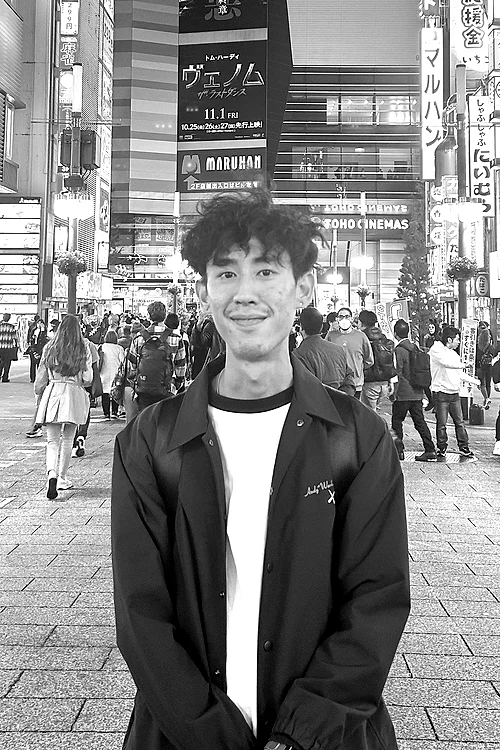
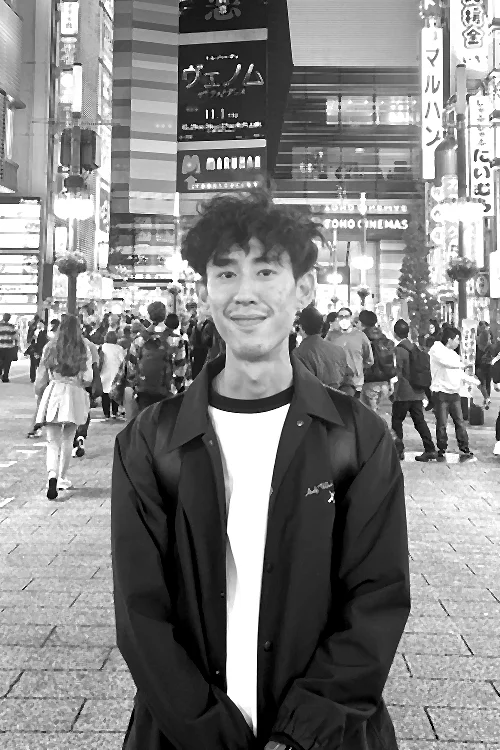
stop the hero typing line from shifting the page, orange showPicture(), light skin smoothing
The typed role/fun swap was 3px different in height every cycle (role
runs 6% bigger in a serif that already reads taller at the same size)
— both variants now compute line-height off the same base instead of
their own font-size, so the row holds still. Separately, the longest
string ("Cloud & Automation Tinkerer") wraps to two lines under
~400px; reserved that height there too so wrapping in doesn't move
anything either.

showPicture() switches from cobalt to vermilion-ink, as asked.

Portrait gets a median-filtered pass before the contrast/sharpen
grade — smooths skin texture without a face mask, since nothing in
the toolchain here does face detection.

diff --git a/style.css b/style.css
@@ -655,12 +655,18 @@ main { position: relative; z-index: 10; flex: 1; }
 
 /* Typing line — role names take the serif italic accent */
 .hero__typing {
+  --fs-typed: clamp(1.5rem, 2.2vw, 1.75rem);
   display: flex;
   flex-wrap: wrap;
   align-items: baseline;
   gap: 0.5rem;
-  min-height: 2.4rem;
   margin-bottom: clamp(28px, 4vh, 48px);
+}
+/* The longest role ("Cloud & Automation Tinkerer") doesn't fit on one line
+   under ~400px and wraps to two — reserve that height so switching to it
+   doesn't push the page down and back on every pass through the list. */
+@media (max-width: 400px) {
+  .hero__typing { min-height: calc(var(--fs-typed) * 1.65 * 2 + 0.5rem); }
 }
 .hero__typing .lead {
   font-size: var(--fs-lead);
@@ -669,11 +675,17 @@ main { position: relative; z-index: 10; flex: 1; }
 }
 /* The line that types itself is the hero's one moving part. Roles take the
    cobalt, the off-duty lines take vermilion. Its own size floor sits at
-   24px so vermilion always reads as large text, where 3:1 is the bar. */
+   24px so vermilion always reads as large text, where 3:1 is the bar.
+
+   Both variants set line-height off the same --fs-typed base rather than
+   their own font-size — the role's serif italic runs 6% bigger and reads
+   taller again on top of that from the typeface's own metrics, so tying
+   line-height to each element's own size left the row 3px taller every
+   time a role swapped in, and the whole page below it shifted with it. */
 .hero__typing .typed {
-  --fs-typed: clamp(1.5rem, 2.2vw, 1.75rem);
   font-family: var(--sans);
   font-size: var(--fs-typed);
+  line-height: calc(var(--fs-typed) * 1.65);
   letter-spacing: -0.015em;
   color: var(--cobalt);
   min-width: 0;
@@ -682,6 +694,7 @@ main { position: relative; z-index: 10; flex: 1; }
   font-family: var(--serif);
   font-style: italic;
   font-size: calc(var(--fs-typed) * 1.06);
+  line-height: calc(var(--fs-typed) * 1.65);
   letter-spacing: -0.01em;
   color: var(--cobalt);
 }
@@ -806,8 +819,8 @@ main { position: relative; z-index: 10; flex: 1; }
   color: var(--mute);
 }
 
-/* The only cue that the frame has a second picture under it. Cobalt,
-   because on this page cobalt is what you can act on. */
+/* The only cue that the frame has a second picture under it. Vermilion-ink,
+   not vermilion — at 11px only the darker value clears 4.5:1. */
 .portrait__toggle {
   display: inline-flex;
   align-items: center;
@@ -821,7 +834,7 @@ main { position: relative; z-index: 10; flex: 1; }
   font-weight: 500;
   letter-spacing: 0.14em;
   text-transform: uppercase;
-  color: var(--cobalt);
+  color: var(--vermilion-ink);
   cursor: pointer;
 }
 .portrait__toggle-arrow {
